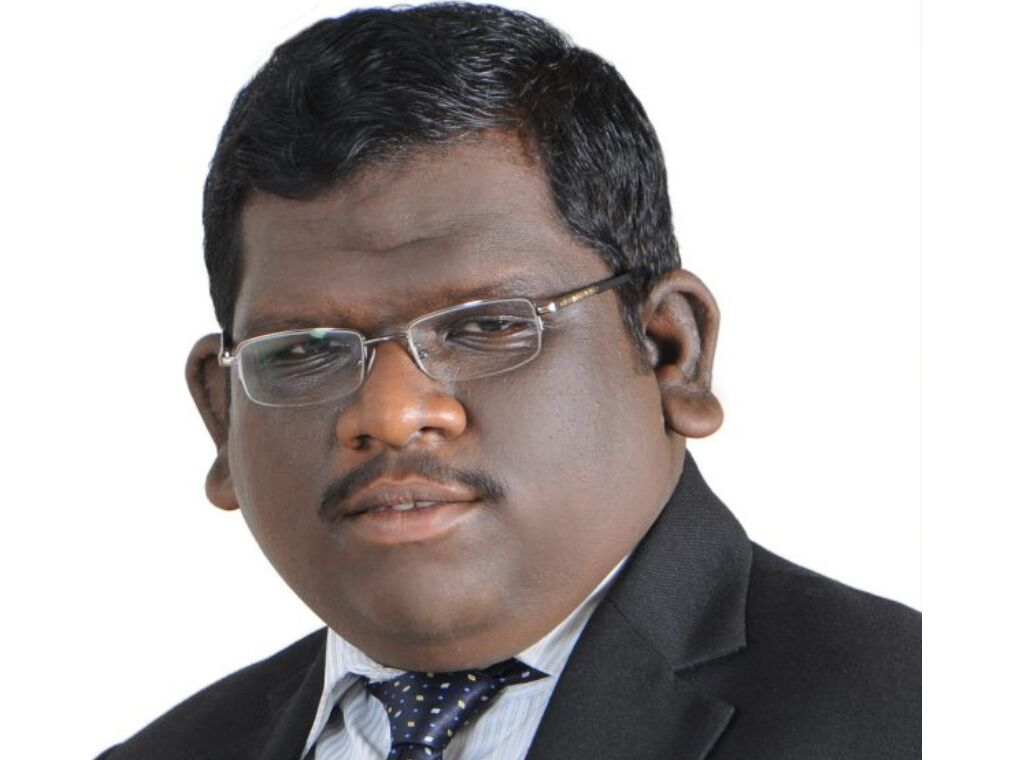
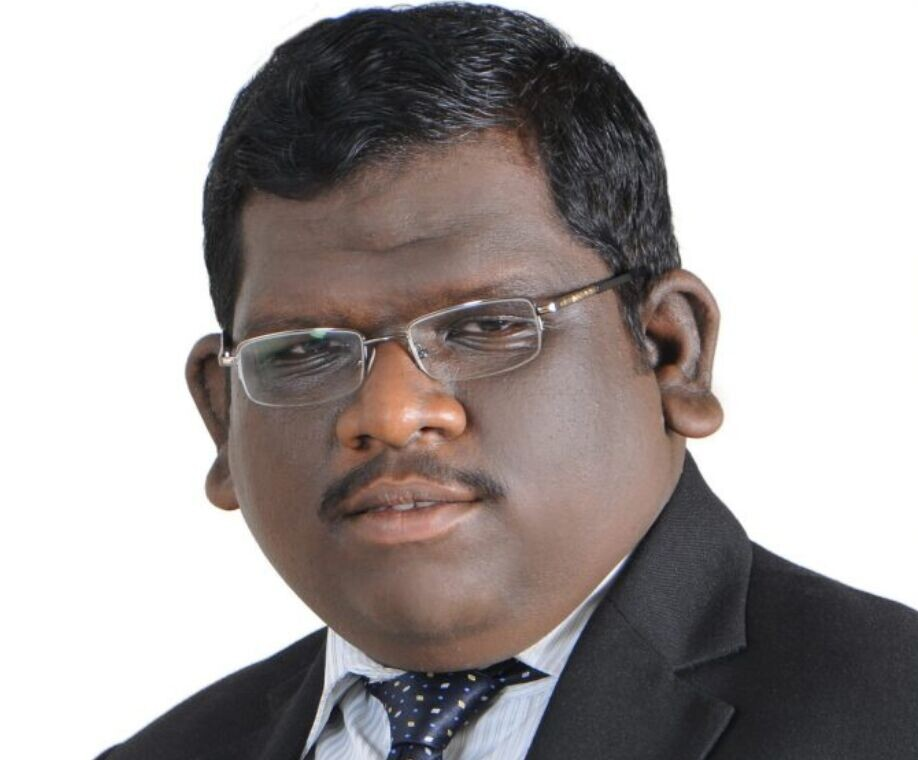
fix: unslop pass — hide route-focus ring on h1, crop founder photo strip, drop process glow

diff --git a/components/sections/ProcessBoard.tsx b/components/sections/ProcessBoard.tsx
@@ -193,12 +193,6 @@ function Tile({ index, state }: { index: number; state: StageState }) {
         className="absolute bg-ink opacity-15 blur-[0.375rem]"
         style={{ inset: u(-0.2), transform: "translateZ(1px)" }}
       />
-      {state === "current" && (
-        <div
-          className="process-bloom absolute bg-[radial-gradient(closest-side,var(--accent),transparent)] opacity-35"
-          style={{ inset: u(-4.5), transform: "translateZ(1px)" }}
-        />
-      )}
       <div
         className="absolute [transform-style:preserve-3d]"
         style={{ inset: u(-0.5) }}
@@ -356,7 +350,7 @@ export function ProcessBoard({ showOwners }: { showOwners: boolean }) {
             return (
               <path
                 key={stage.id}
-                className={`process-trace ${solid ? "drop-shadow-[0_0_3px_var(--accent)]" : ""}`}
+                className="process-trace"
                 d={segment(index)}
                 mask={`url(#process-run-${index})`}
                 fill="none"
@@ -374,7 +368,7 @@ export function ProcessBoard({ showOwners }: { showOwners: boolean }) {
             );
           })}
           <circle
-            className="process-head drop-shadow-[0_0_4px_var(--accent)]"
+            className="process-head"
             cx={head[0]}
             cy={head[1]}
             r={0.45}

diff --git a/components/sections/ProcessStage.tsx b/components/sections/ProcessStage.tsx
@@ -12,8 +12,6 @@ const RUN = 1;
 const LIGHT = 0.3;
 /** Scroll held on the finished board before the pin lets go. */
 const HOLD = 0.8;
-/** Floor bloom under the current tile, as drawn (`opacity-35`). */
-const BLOOM = 0.35;
 
 /**
  * Desktop: scroll draws the trace run by run while the board travels right
@@ -100,14 +98,6 @@ function buildBoard(tl: gsap.core.Timeline, root: HTMLElement) {
         lit,
         { opacity: 0 },
         { opacity: 1, duration: LIGHT, ease: "none" },
-        lands,
-      );
-    const bloom = tile.querySelector(".process-bloom");
-    if (bloom)
-      tl.fromTo(
-        bloom,
-        { opacity: 0 },
-        { opacity: BLOOM, duration: LIGHT * 2, ease: "none" },
         lands,
       );
 

diff --git a/app/globals.css b/app/globals.css
@@ -198,6 +198,12 @@
     outline-offset: 3px;
   }
 
+  /* Route focus (lib/routeFocus.ts) lands on the page h1 so screen readers
+     announce arrival. A heading isn't a control, so it shows no ring. */
+  h1[tabindex="-1"]:focus-visible {
+    outline: none;
+  }
+
   /*
    * One press for every control: it sinks 1 px while held. `translate` is
    * its own property, so it stacks on whatever `transform` a control already
